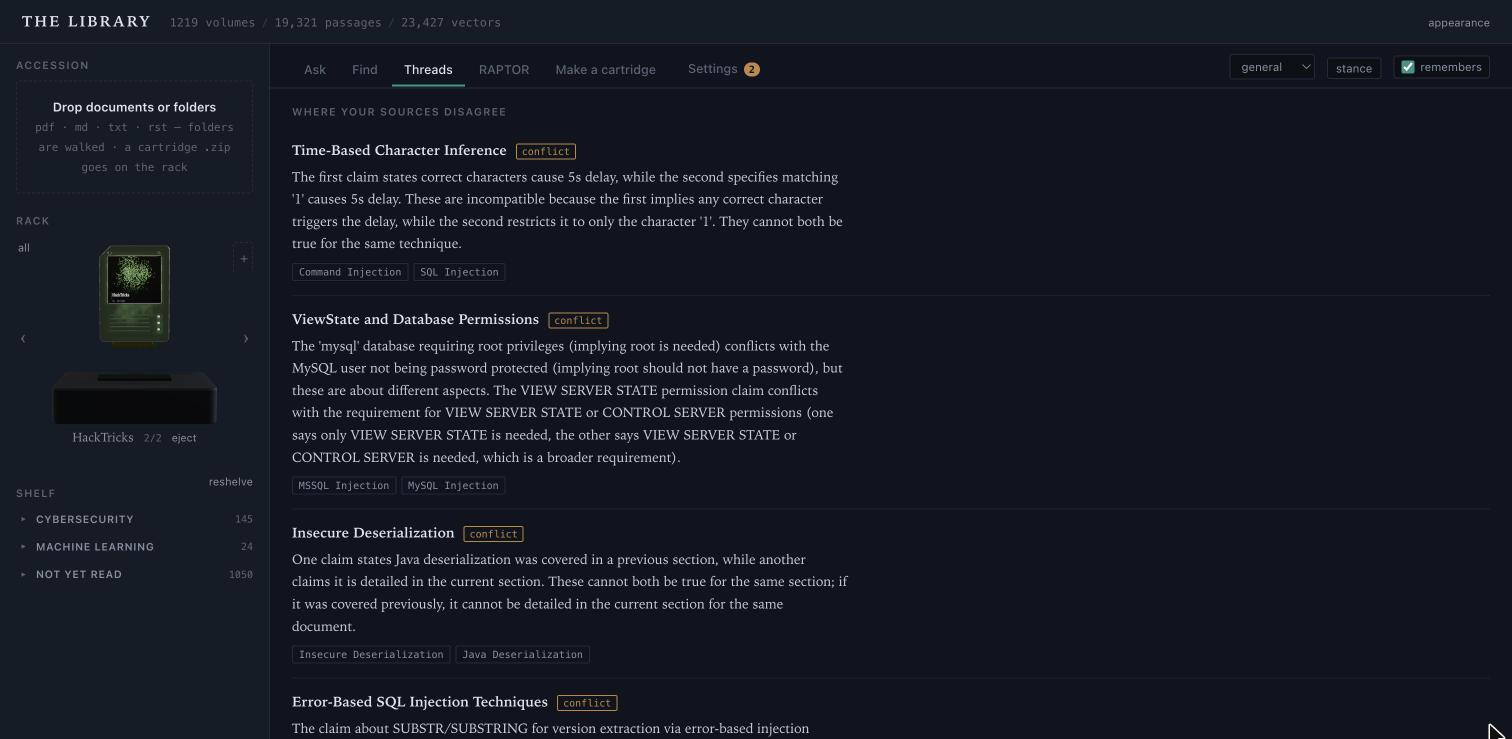
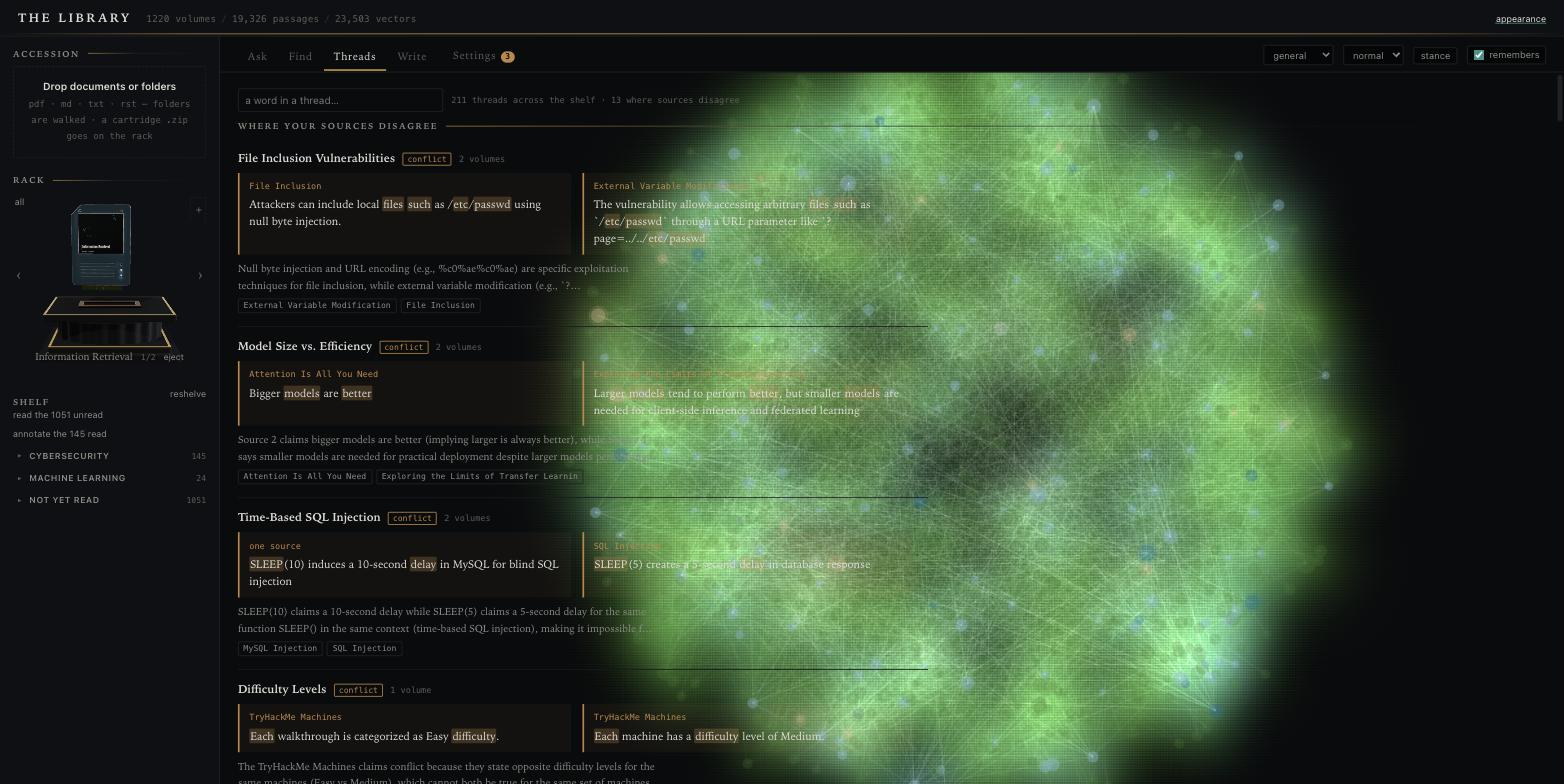
Night room near black; day chart lighter; screenshots for the two rooms
Claude-Session: https://claude.ai/code/session_01TtRHYgjdAhQK62Gn23bEvQ

diff --git a/web/index.html b/web/index.html
@@ -16,9 +16,9 @@
    always means provenance, so you can trust it at a glance.
    ────────────────────────────────────────────────────────────────────────── */
 :root {
-  --bg:#10141b; --panel:#161b24; --sunk:#0c1016;
-  --rule:#232b37; --rule-soft:#1b222c;
-  --fg:#dde2ea; --dim:#868f9f; --faint:#5a6472;
+  --bg:#0a0b0d; --panel:#0f1013; --sunk:#050607;
+  --rule:#202226; --rule-soft:#17191c;
+  --fg:#dedcd6; --dim:#8b8a85; --faint:#5c5b57;
   --rubric:#cc5f46; --verdigris:#4f9186; --amber:#b8894f; --opinion:#a98ae0;
   --gilt:#b8964e; --gilt-hi:#e2c47a; --gilt-lo:#7d6330;
   --ink:'221,226,234';
@@ -49,9 +49,9 @@
   --ink:'42,33,24';
 }
 :root[data-theme=dark] {
-  --bg:#10141b; --panel:#161b24; --sunk:#0c1016;
-  --rule:#232b37; --rule-soft:#1b222c;
-  --fg:#dde2ea; --dim:#868f9f; --faint:#5a6472;
+  --bg:#0a0b0d; --panel:#0f1013; --sunk:#050607;
+  --rule:#202226; --rule-soft:#17191c;
+  --fg:#dedcd6; --dim:#8b8a85; --faint:#5c5b57;
   --rubric:#cc5f46; --verdigris:#4f9186; --amber:#b8894f; --opinion:#a98ae0;
   --gilt:#b8964e; --gilt-hi:#e2c47a; --gilt-lo:#7d6330;
   --ink:'221,226,234';
@@ -976,18 +976,18 @@ const web = {
     const dark = !document.documentElement.dataset.theme ? matchMedia('(prefers-color-scheme: dark)').matches : document.documentElement.dataset.theme === 'dark';
     // Ink: pale on slate at night; on papyrus by day, a sepia that multiplies into the
     // page like a star chart drawn on it rather than a grey cloud sitting on it.
-    const ink = dark ? '221,226,234' : '58,42,26';
+    const ink = dark ? '221,226,234' : '92,72,48';
     const css = getComputedStyle(document.documentElement);
     const rubric = css.getPropertyValue('--rubric').trim(), verd = css.getPropertyValue('--verdigris').trim();
     const P = new Map(); for (const n of this.nodes) P.set(n, this.project(n));
-    const colour = (n, l, a) => n.c ? n.c : n.top && this.hueOf[n.top] != null ? `hsl(${this.hueOf[n.top]} ${dark ? 45 : 30}% ${l}% / ${a})` : `rgba(${ink},${a})`;
+    const colour = (n, l, a) => n.c ? n.c : n.top && this.hueOf[n.top] != null ? `hsl(${this.hueOf[n.top]} ${dark ? 45 : 42}% ${l}% / ${a})` : `rgba(${ink},${a})`;
     // edges, faint, fading with depth
     c.lineWidth = .7;
     for (const e of this.edges) {
       const a = P.get(e.a), b = P.get(e.b), depth = 1 - (a.depth + b.depth) / 2;
       const lit = Math.min(e.a.lit, e.b.lit);
       // By day the chart is its lines: the haze is nearly gone, so the edges carry it.
-      const ek = dark ? (e.k === 'cite' ? .26 : e.k === 'thread' ? .18 : .08) : (e.k === 'cite' ? .5 : e.k === 'thread' ? .34 : .16);
+      const ek = dark ? (e.k === 'cite' ? .26 : e.k === 'thread' ? .18 : .08) : (e.k === 'cite' ? .3 : e.k === 'thread' ? .2 : .09);
       c.strokeStyle = lit > .05 ? rubric : `rgba(${ink},${ek * e.w * (.35 + .65 * depth)})`;
       c.globalAlpha = lit > .05 ? .2 + .6 * lit : 1;
       c.beginPath(); c.moveTo(a.x, a.y); c.lineTo(b.x, b.y); c.stroke();
@@ -999,9 +999,9 @@ const web = {
     for (const n of order) {
       const p = P.get(n), near = 1 - p.depth, R = (n.r * 9 + 18) * p.s;
       const grd = c.createRadialGradient(p.x, p.y, 0, p.x, p.y, R);
-      const hazeA = (dark ? .17 : .022) * (.4 + .6 * near);
+      const hazeA = (dark ? .17 : .014) * (.4 + .6 * near);
       if (n.lit > .02) { grd.addColorStop(0, rubric); c.globalAlpha = (dark ? .5 : .22) * n.lit; n.lit *= .992; }
-      else { grd.addColorStop(0, colour(n, dark ? 62 : 34, 1)); c.globalAlpha = hazeA; }
+      else { grd.addColorStop(0, colour(n, dark ? 62 : 45, 1)); c.globalAlpha = hazeA; }
       grd.addColorStop(1, 'rgba(0,0,0,0)');
       c.fillStyle = grd; c.beginPath(); c.arc(p.x, p.y, R, 0, Math.PI * 2); c.fill();
     }
@@ -1009,8 +1009,8 @@ const web = {
     // the volumes themselves
     for (const n of order) {
       const p = P.get(n), near = 1 - p.depth;
-      c.globalAlpha = (n.tier === 0 ? (dark ? .3 : .45) : (dark ? .55 : .8)) * (.35 + .65 * near);
-      c.fillStyle = n.lit > .02 ? rubric : colour(n, dark ? 70 : 28, 1);
+      c.globalAlpha = (n.tier === 0 ? (dark ? .3 : .32) : (dark ? .55 : .6)) * (.35 + .65 * near);
+      c.fillStyle = n.lit > .02 ? rubric : colour(n, dark ? 70 : 40, 1);
       c.beginPath(); c.arc(p.x, p.y, Math.max(.6, n.r * p.s), 0, Math.PI * 2); c.fill();
       if (n.tier >= 2) { c.lineWidth = .7; c.strokeStyle = c.fillStyle; c.beginPath(); c.arc(p.x, p.y, n.r * p.s + 2, 0, Math.PI * 2); c.stroke(); }
     }

diff --git a/web/cartridge3d.js b/web/cartridge3d.js
@@ -380,7 +380,7 @@ export function mountRack(canvas, handlers = {}) {
   const shadow = new THREE.Mesh(new THREE.PlaneGeometry(2.2, 1.1), new THREE.MeshBasicMaterial({ map: shadowTex(), transparent: true, depthWrite: false, opacity: .8 }));
   shadow.rotation.x = -Math.PI / 2; shadow.position.y = TOP + .06; socket.add(shadow);
   // stone follows the room
-  const dayStone = new THREE.Color(0xcfc3a6), nightStone = new THREE.Color(0x1c2027);
+  const dayStone = new THREE.Color(0xcfc3a6), nightStone = new THREE.Color(0x15171a);
   const restone = () => { const bg = panelBg(); const hsl = {}; bg.getHSL(hsl); stone.color.copy(hsl.l > .5 ? dayStone : nightStone); stone.roughness = hsl.l > .5 ? .9 : .82; };
   restone();
   // The room can change while the rack is idle: watch the theme and re-stone at once.

diff --git a/scripts/verify.py b/scripts/verify.py
@@ -266,8 +266,8 @@ async def main():
         sh(f"./ops/backup.sh {td} >/dev/null 2>&1")
         made = sh(f"ls {td}/*/ 2>/dev/null")
         ok("backup produces dump + archive", "library_agent.dump" in made and "documents.tar.gz" in made)
-    ok("screenshots present", all(os.path.exists(f"docs/{n}.jpg") for n in ("web","ask","find","reader","threads","cartridge","settings","write")))
-    ok("README references them", all(f"docs/{n}.jpg" in open("README.md").read() for n in ("web","ask","find","reader","threads","cartridge","settings","write")))
+    ok("screenshots present", all(os.path.exists(f"docs/{n}.jpg") for n in ("web","ask","find","reader","threads","cartridge","settings","write","day")))
+    ok("README references them", all(f"docs/{n}.jpg" in open("README.md").read() for n in ("web","ask","find","reader","threads","cartridge","settings","write","day")))
 
     passed = sum(1 for _,c_,_ in R if c_); total = len(R)
     print(f"\n{'ALL PASS' if passed==total else 'FAILURES'}: {passed}/{total}")

diff --git a/README.md b/README.md
@@ -71,6 +71,10 @@ curl -X POST 'localhost:8077/api/read/backfill?tier=2'   # annotate everything o
 
 **Two rooms** — *appearance* in the masthead switches them. The night room is slate and verdigris; the day room is papyrus and ink, with gilt on the edges — the lintel under the masthead, the frieze rules beside each section label, the chosen tab — and the nebula drawn as a star chart in sepia rather than a cloud. The socket the cartridges drop into is a pedestal: a stepped base, a fluted drum, a Doric capital whose abacus carries the bronze mouth, a gilt fillet at the lip; limestone by day, basalt by night. The cartridge itself is the same object in both rooms — its design is sealed in the manifest, so it does not take the room's colour.
 
+<p align="center">
+  <img src="docs/day.jpg" alt="The day room. Threads on papyrus: conflicts quoted side by side with their shared words lit, the nebula drawn as a sepia star chart, the cartridge on its limestone pedestal." width="900"/>
+</p>
+
 **Conversations** — the desk bar names the current one, starts a new one, and lists earlier ones; opening one replays it with its margin notes, and asking again continues it.
 
 <p align="center">

diff --git a/docs/DEVLOG.md b/docs/DEVLOG.md
@@ -836,3 +836,11 @@ touching it. First cut shadowed a local named `frame` and fell back to the 2D sp
 without a word beyond a console warning; worth a louder failure some day. The cartridge
 stays the object it was: its design is sealed, and a thing does not change colour when
 you carry it into another room.
+
+**Second pass.** "Nebula still looks kinda dark on light mode; can dark mode be darker,
+almost black rather than that blueish dark gray." Night room to `#0a0b0d`, neutral
+rather than blue, rules and text greys re-derived from it; basalt a shade darker to sit
+in it. Day chart: ink lightened to `92,72,48`, points at 40% lightness and 42%
+saturation so the shelves read as coloured inks, edge alphas roughly halved, haze to
+.014. It is a drawing now, not a stain. And with the `[Title]` prefix peeled, all 13
+conflicts carry their quoted pair.
